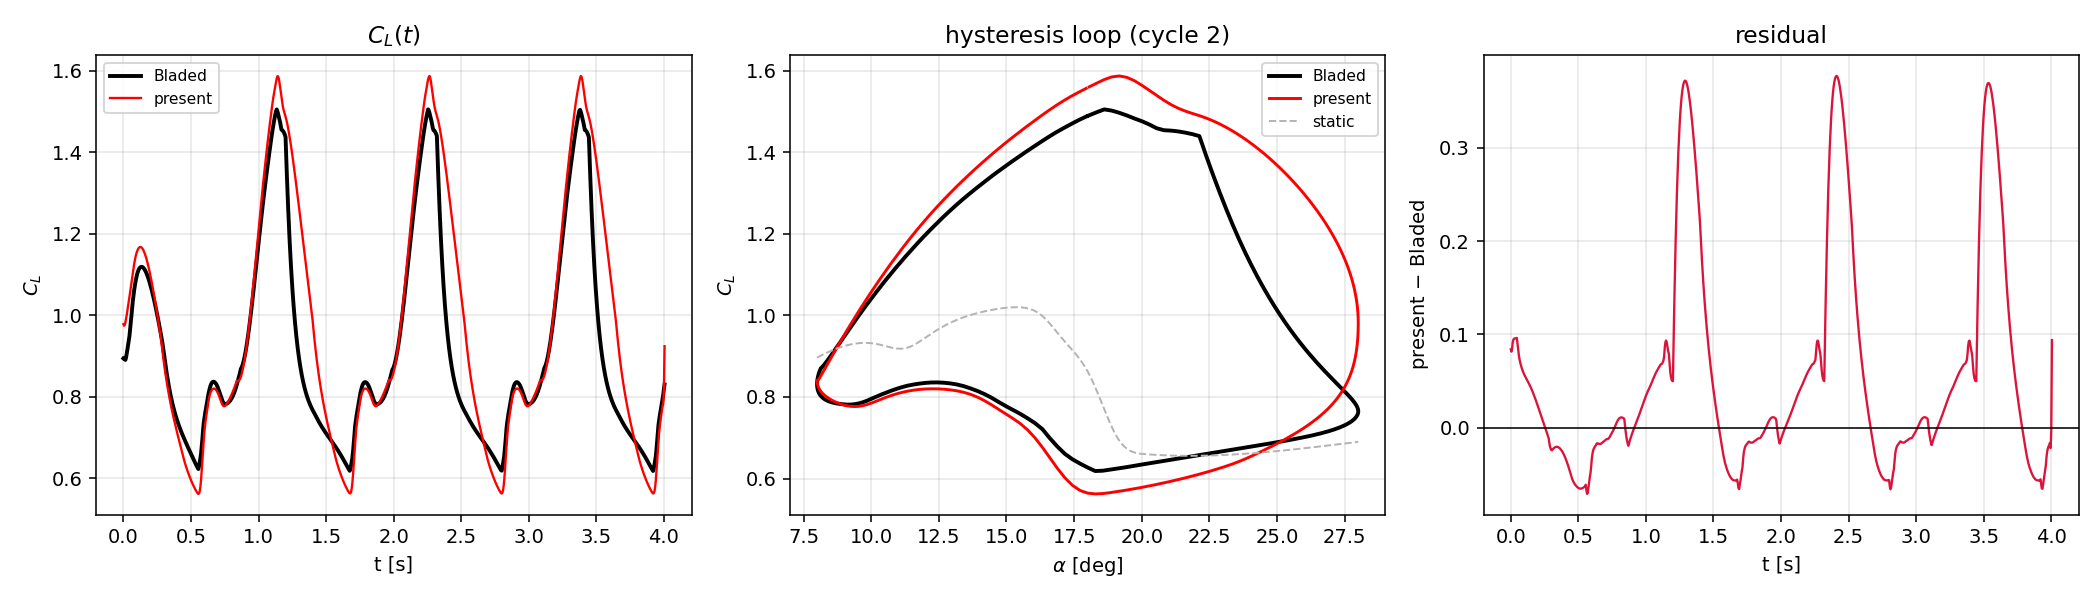
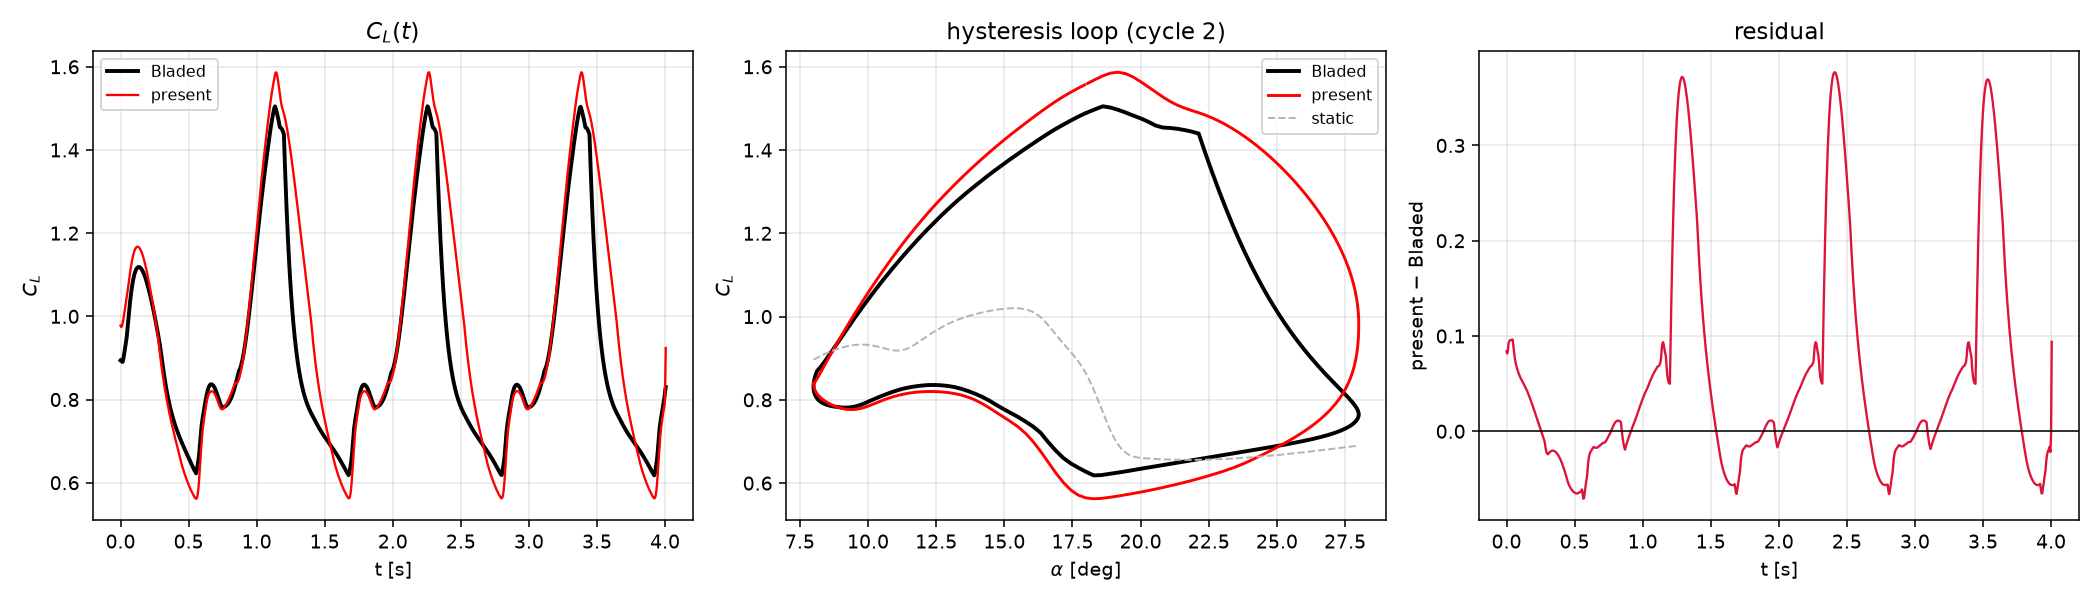
IAG update

diff --git a/IAG.py b/IAG.py
@@ -21,14 +21,15 @@ class IAG:
         C_L   = (C_N_f + x5)*cos(a) - C_T(a_f)*sin(a)           (50,52)
     """
 
-    n_states = 5
-    names = ["x1", "x2", "x3", "x4", "x5"]
+    n_states = 6
+    names = ["x1", "x2", "x3", "x4", "x5", "tau_v"]
 
-
+    # Table 1, state-space IAG.  K_v omitted: it only enters the pitching
+    # moment through the centre of pressure, which is not computed here.
     A1, A2 = 0.3, 0.7
     b1, b2 = 0.7, 0.53
     K_a = 0.75
-    T_p, T_f, T_v = 1.7, 3.0, 6.0
+    T_p, T_f, T_v, T_vl = 1.7, 3.0, 6.0, 6.0
 
     def __init__(self, polar: Polar, chord: float):
         self.polar = polar
@@ -39,50 +40,59 @@ class IAG:
 
     def f_st(self, a):
         """Kirchhoff inversion, sinusoidal form."""
-        den = self.dCN * np.sin(a - self.a0)                              # (42)
+        den = self.dCN * np.sin(a - self.a0)                              
         if abs(den) < 1e-9:
             return 1.0
         s = 2 * np.sqrt(max(float(self.polar.cn(a)) / den, 0.0)) - 1
         return float(np.clip(s ** 2, 0.0, 1.0)) if s > 0 else 0.0
 
     def ct(self, a):
-        """C_T = C_D cos(a) - C_L sin(a), the sign Eq 52 needs."""
+        """C_T = C_D cos(a) - C_L sin(a)"""
         return float(self.polar.cd(a)) * np.cos(a) - float(self.polar.cl(a)) * np.sin(a)
+
+    def a34(self, alpha, alpha_dot, V):
+        return alpha + self.chord / (2 * max(V, 1e-9)) * alpha_dot
 
     def inner(self, y, alpha, alpha_dot, V):
         """(a_e, C_N_C, C_N_I, a_f) -- shared by rhs and coeffs."""
-        a_e = alpha * (1 - self.A1 - self.A2) + y[0] + y[1]               # (36)
-        cn_c = self.dCN * np.sin(a_e - self.a0)                           # (37)
-        cn_i = 4 * self.K_a * self.chord / max(V, 1e-9) * alpha_dot       # (38)
-        a_f = self.a0 + y[2] / self.dCN                                   # (41)
+        a_e = self.a34(alpha, alpha_dot, V) * (1 - self.A1 - self.A2) \
+            + y[0] + y[1]                                                 
+        cn_c = self.dCN * np.sin(a_e - self.a0)                           
+        cn_i = 4 * self.K_a * self.chord / max(V, 1e-9) * alpha_dot      
+        a_f = self.a0 + y[2] / self.dCN                                  
         return a_e, cn_c, cn_i, a_f
 
     def y0(self, alpha, V):
         x3 = self.dCN * np.sin(alpha - self.a0)
         return np.array([self.A1 * alpha, self.A2 * alpha,
-                         x3, self.f_st(self.a0 + x3 / self.dCN), 0.0])
+                         x3, self.f_st(self.a0 + x3 / self.dCN), 0.0, 0.0])
 
     def rhs(self, y, alpha, alpha_dot, V):
         Ts = self.chord / (2 * max(V, 1e-9))
-        x1, x2, x3, x4, x5 = y
+        x1, x2, x3, x4, x5, tv = y
         a_e, cn_c, cn_i, a_f = self.inner(y, alpha, alpha_dot, V)
 
-        x1d = (self.b1 * self.A1 * alpha - self.b1 * x1) / Ts             # (34)
-        x2d = (self.b2 * self.A2 * alpha - self.b2 * x2) / Ts             # (35)
-        x3d = (-x3 + cn_c + cn_i) / (Ts * self.T_p)                       # (40)
-        x4d = (-x4 + self.f_st(a_f)) / (Ts * self.T_f)                    # (43)
+        x1d = (self.b1 * self.A1 * alpha - self.b1 * x1) / Ts              
+        x2d = (self.b2 * self.A2 * alpha - self.b2 * x2) / Ts               
+        x3d = (-x3 + cn_c + cn_i) / (Ts * self.T_p)                      
+        x4d = (-x4 + self.f_st(a_f)) / (Ts * self.T_f)                   
 
-        # vortex lift, first two conditions of Eq 48 only               (46,48)
-        if alpha_dot > 0 and x3 > self.CN_crit:
+
+        on = alpha_dot > 0 and x3 > self.CN_crit and tv < self.T_vl      
+
+        if on:
             a_ed = alpha_dot * (1 - self.A1 - self.A2) + x1d + x2d
             s = np.sqrt(max(x4, 1e-12))
             cvd = (self.dCN * a_ed * (1 - 0.25 * (1 + s) ** 2)
                    - 0.25 * cn_c * (1 + s) * x4d / s)
         else:
             cvd = 0.0
-        x5d = -x5 / (Ts * self.T_v) + cvd                                 # (45)
+        x5d = -x5 / (Ts * self.T_v) + cvd                                
 
-        return np.array([x1d, x2d, x3d, x4d, x5d])
+        r = V / self.chord                                       
+        tvd = 0.45 * r if on else -r * tv                        
+
+        return np.array([x1d, x2d, x3d, x4d, x5d, tvd])
 
     def coeffs(self, y, alpha, alpha_dot, V):
         """Return (C_L, C_D)."""
@@ -90,7 +100,7 @@ class IAG:
         a_e, cn_c, cn_i, a_f = self.inner(y, alpha, alpha_dot, V)
         s = np.sqrt(x4)
 
-        cn_f = self.dCN * ((1 + s) / 2) ** 2 * np.sin(a_e - self.a0) + cn_i   # (44)
+        cn_f = self.dCN * ((1 + s) / 2) ** 2 * np.sin(a_e - self.a0) + cn_i  
         cl = (cn_f + y[4]) * np.cos(alpha) - self.ct(a_f) * np.sin(alpha)     # (50,52)
 
         cd_a, cd_0 = float(self.polar.cd(alpha)), float(self.polar.cd(self.a0))

diff --git a/input.py b/input.py
@@ -11,7 +11,7 @@ class Polar:
     alpha_0 = -0.38 * DEG      
     C_N_alpha = 7.12499         
     alpha_stall = 15.3 * DEG
-    CN1 = 0.90              
+    CN1 = 0.920154          
 
     def __init__(self, path="S809_polar.csv"):
         if not os.path.isabs(path):
